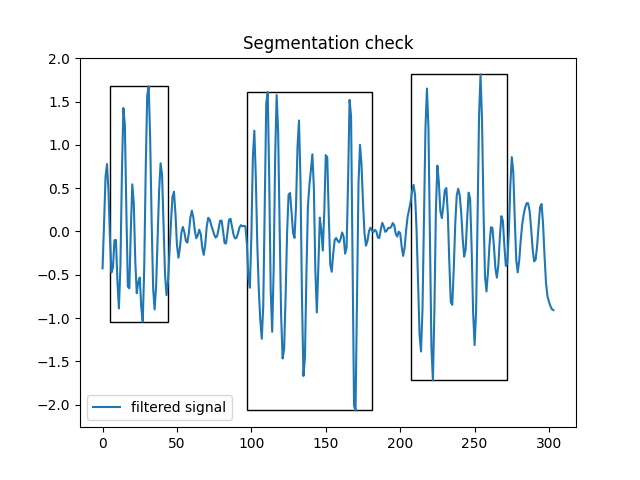
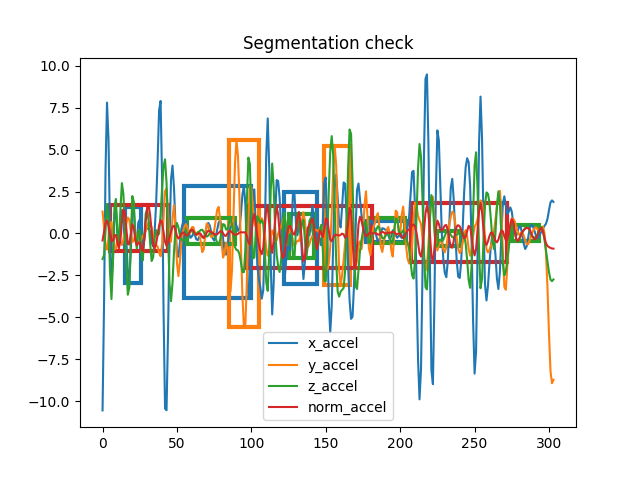
represent 4 channels with rectangles on same figure to check segmentation

diff --git a/graphUtils.py b/graphUtils.py
@@ -2,6 +2,7 @@ from typing import List, Tuple
 
 import matplotlib.pyplot as plt
 from matplotlib.patches import Rectangle
+import numpy as np
 
 def show_3_subplot(x, y1, y2, y3, title, ylabel, xlabel):
     plt.subplot(3, 1, 1)
@@ -80,22 +81,34 @@ def plots_data(x:List[float], title:str, need_buffered:bool, *functions:List[Tup
         plt.savefig(f"./images_saved/{file_name}.png")
         plt.show()
 
-def plots_rectangles(y_signal:List[float], segment_start_indices:List[float], segment_end_indices:List[float], need_buffer:bool):
+def plots_rectangles(y_signals: List[Tuple[List[float],str]], segment_start_indices: List[List[float]], segment_end_indices: List[List[float]], need_buffer: bool):
     _, ax = plt.subplots()
-    for start, end in zip(segment_start_indices, segment_end_indices):
-        # for exception, allow to throw errors
-        if start > end:
-            temp = start
-            start = end
-            end = temp
-        print("Segment : Start = {} seconds, End = {} seconds".format(start, end))
-        norm_gaussian_part = y_signal[start:end]
-        min_y = min(norm_gaussian_part)
-        max_y = max(norm_gaussian_part)
-        ax.add_patch(Rectangle((start, min_y), end-start, max_y - min_y, fill=False))
-    plt.plot(y_signal, label="filtered signal")
+    patches = []
+    lines = []
+
+    for i, (y_signal, start_indices, end_indices) in enumerate(zip(y_signals, segment_start_indices, segment_end_indices)):
+        line, = plt.plot(y_signal[0], label=y_signal[1])
+        lines.append(line)
+        for start, end in zip(start_indices, end_indices):
+            if start > end:
+                start, end = end, start
+            norm_gaussian_part = y_signal[0][int(start):int(end)]
+            min_y = min(norm_gaussian_part)
+            max_y = max(norm_gaussian_part)
+            rect = Rectangle((start, min_y), end - start, max_y - min_y, fill=False, edgecolor=line.get_color(), linewidth=3)
+            ax.add_patch(rect)
+            patches.append(rect)
+        
+        
     plt.legend()
     plt.title("Segmentation check")
+
     if not need_buffer:
-        plt.savefig(f"./images_saved/Segmentation_check.png")
+        plt.savefig("./images_saved/Segmentation_check.png")
         plt.show()
+
+
+
+
+
+

diff --git a/main.py b/main.py
@@ -96,7 +96,7 @@ plt.subplot(4,1,4)
 GRAPH.plots_data(downsampled_timestamp, "Norm accel", False, (abs_norm, "abs_accel"), (envelopp_norm, "envelopp"))
 
 
-GRAPH.plots_rectangles(xaccel_gaussian, start_xaccel, end_xaccel, True)
-GRAPH.plots_rectangles(yaccel_gaussian, start_yaccel, end_yaccel, True)
-GRAPH.plots_rectangles(zaccel_gaussian, start_zaccel, end_zaccel, True)
-GRAPH.plots_rectangles(norm_gaussian, start_norm, end_norm, False)
+GRAPH.plots_rectangles([ (xaccel_gaussian, "x_accel"), (yaccel_gaussian, "y_accel"), (zaccel_gaussian, "z_accel"), (norm_gaussian, "norm_accel") ],
+                        [start_xaccel,start_yaccel, start_zaccel, start_norm],
+                          [end_xaccel, end_yaccel, end_zaccel, end_norm],
+                          False)

diff --git a/mathsUtils.py b/mathsUtils.py
@@ -71,7 +71,7 @@ def simple_segmentation(downsampled_timestamp, signal, sigma, window_size, envel
             temp = start
             start = end
             end = temp
-        print("Segment : Start = {} seconds, End = {} seconds".format(start, end))
+        #print("Segment : Start = {} seconds, End = {} seconds".format(start, end))
         start_output.append(start)
         end_output.append(end)
     return signal_derivative, norm_gaussian, abs_signal, envelopp, start_output, end_output
